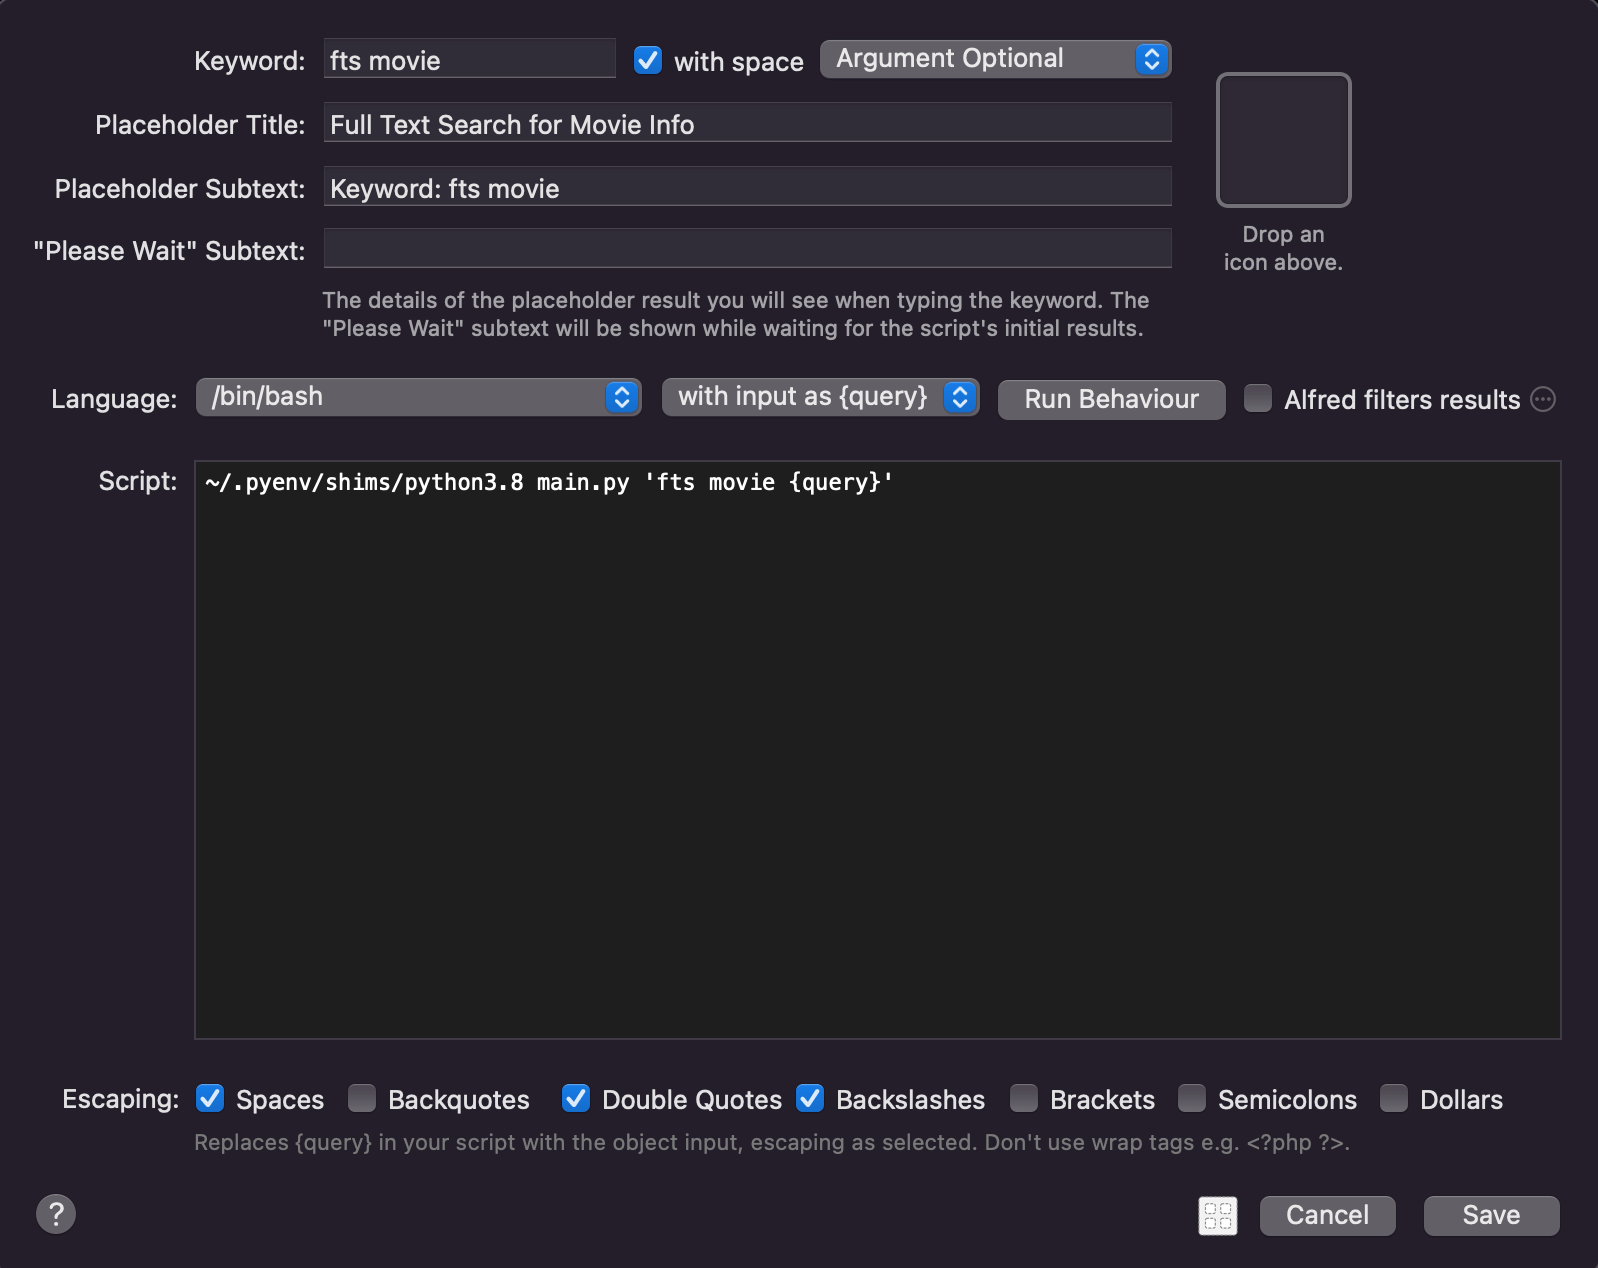
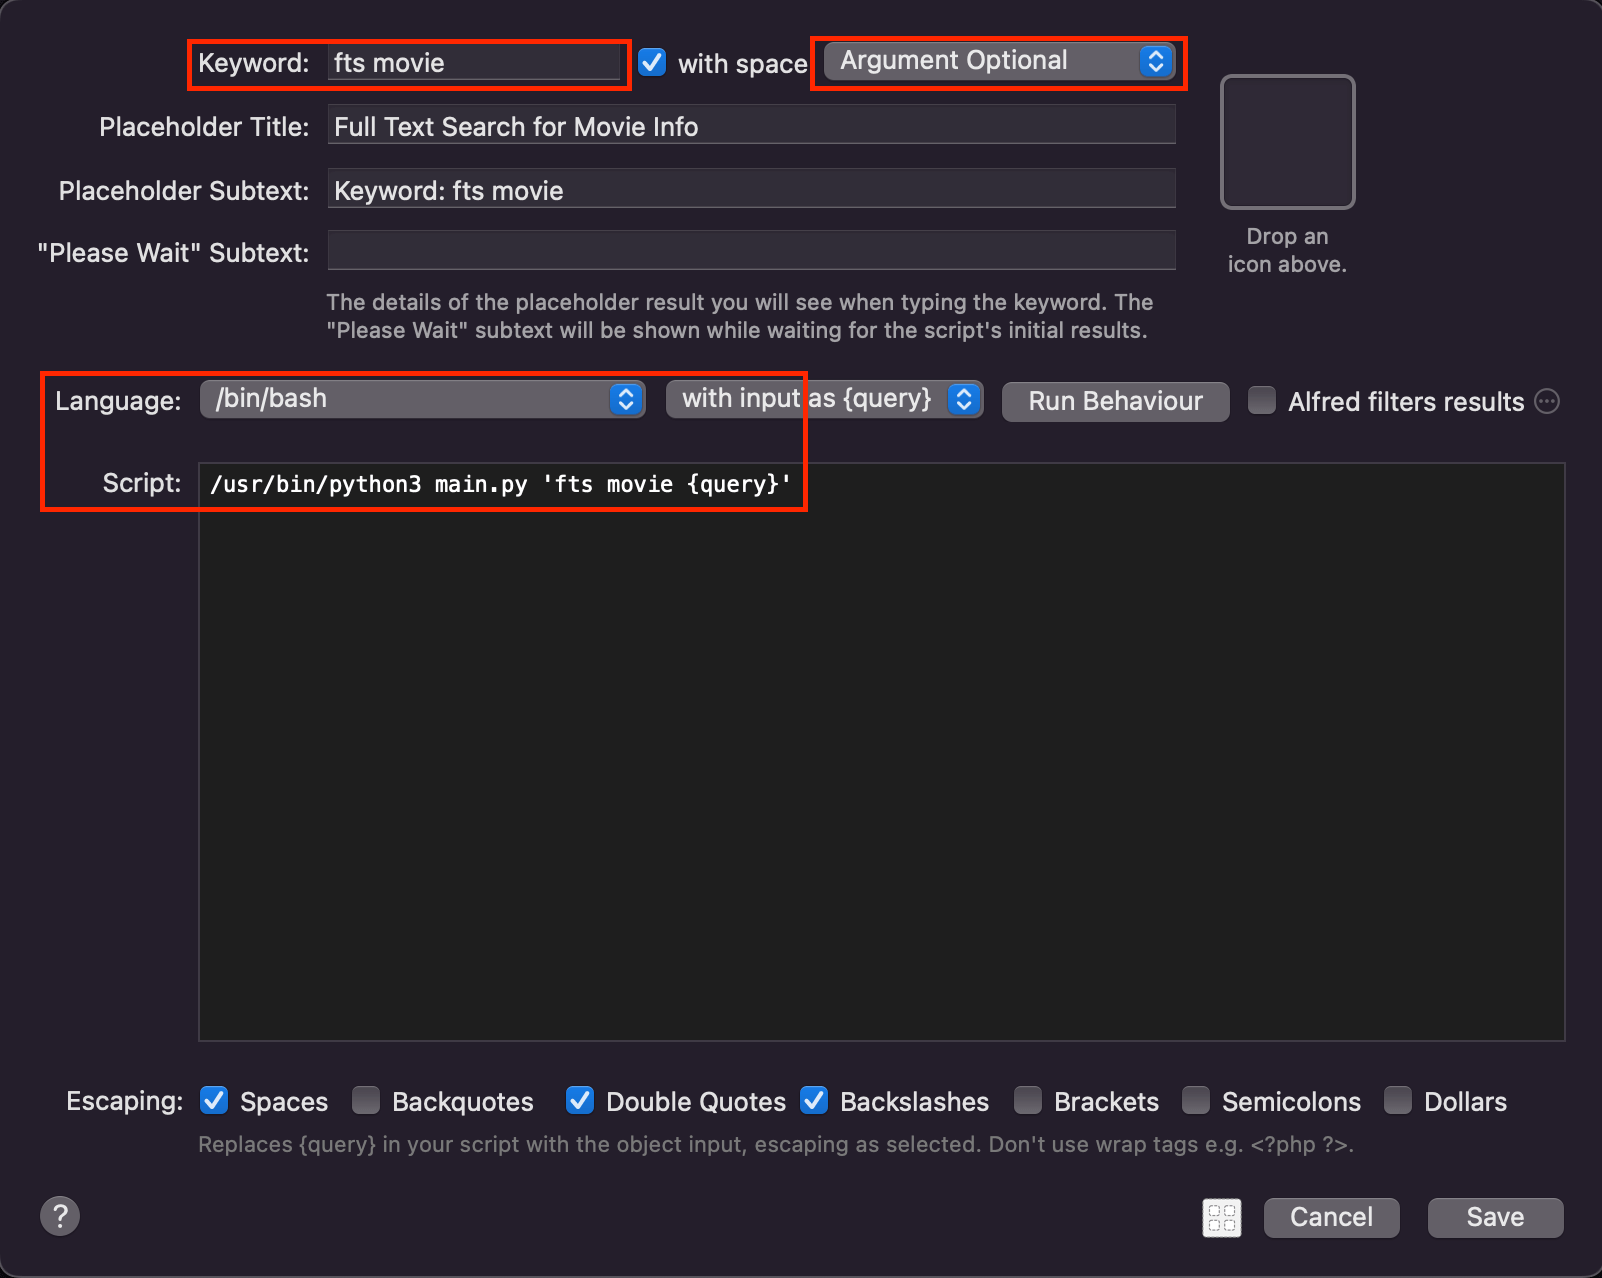
chore

diff --git a/docs/user-guide/01-How-it-Works.rst b/docs/user-guide/01-How-it-Works.rst
@@ -73,7 +73,7 @@ Field is the basic unit of search. You can define how you want the data to be ma
 :is_sortable <bool>: is the field will be used for sorting? If True, the field has to be stored.
 :is_sort_ascending <bool>: is the field will be used for sort ascending?
 
-.. admonition:: BY THE WAY
+**NOTE**
 
     only one of ``type_is_ngram``, ``type_is_phrase``, ``type_is_keyword`` can be True.
 
@@ -225,12 +225,19 @@ In the setting, we defined that:
 
 Alfred Workflow Configuration
 ------------------------------------------------------------------------------
-Below is a sample workflow diagram. The left is the "Script Filter" definition, the right side has "Open File", "Reveal in Finder" and "Open Url".
+Below is a sample workflow diagram. The left is the "Script Filter" definition, the right side has "Open File", "Reveal in Finder" and "Open Url". When you select an item and hit ``Enter``, the arg, which is the url, will be passed to the "Open Url" action and open the IMDB movie url in your default browser.
 
-.. note::
+.. image:: ./images/alfred-workflow-diagram.png
+
+**NOTE**
 
     The "Open File" and "Reveal in Finder" are `afwf Framework <https://afwf.readthedocs.io/index.html>`_ related components. Although the ``afwf_fts_anything`` is based on ``afwf Framework``, but they are not related to ``afwf_fts_anything``.
 
-.. image:: ./images/alfred-workflow-diagram.png
+Below is a sample workflow configuration. You need to know:
+
+- ``fts movie`` is the keyword to trigger this workflow.
+- ``Argument Optional`` means that the fts takes either no argument or a search query.
+- ``Language`` has to be a bash, because we use bash to call Python script.
+- ``Script`` is the python command to run this workflow, ``/usr/bin/python3 main.py 'fts movie {query}'`` means that we use ``/usr/bin/python3`` to run this workflow, and the dataset name is ``movie``. If you want to use a custom Python interpreter, you can change it to ``/path/to/your/python``. But the Python interpreter has to be Python3.7+. Also, if you created your own dataset and setting, you could change it to ``/usr/bin/python3 main.py 'fts your_datset_name {query}'``.
 
 .. image:: ./images/alfred-workflow-configuration.png
